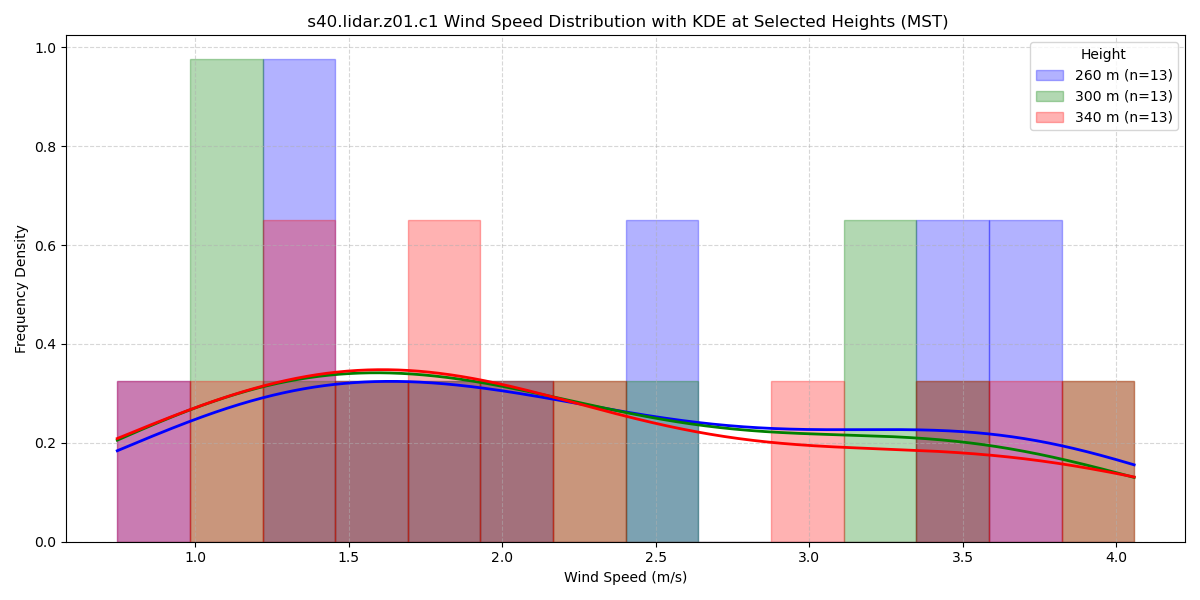
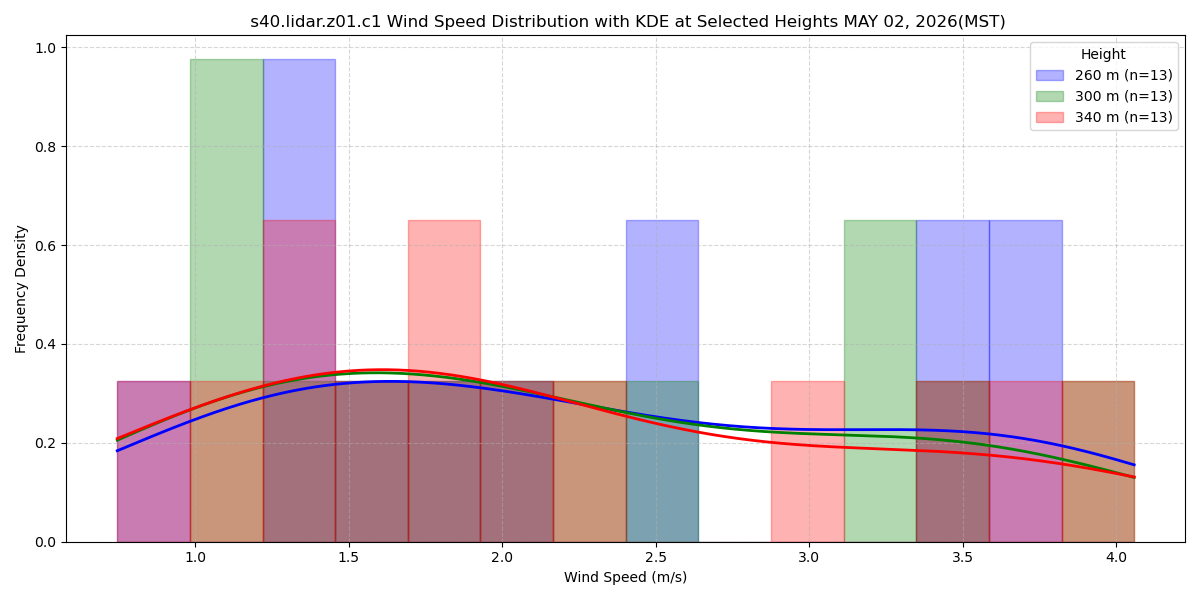
Creation of the code and plot for the histograms of wind SP and DIR from the May 02 data from the s40.lidar.z01.c1 dataset

Changed region(s): [[0.2158, 0.0, 0.8325, 0.06]]

diff --git a/WLA_s40.lidar.z01.c1_MAY02_2026_pull.py b/WLA_s40.lidar.z01.c1_MAY02_2026_pull.py
@@ -95,28 +95,51 @@ print("Selected Heights for Wind Direction:", ds_sel_wd["height"].values)
 # plt.show()
 
 ###################################### 
-# SIKE make the hitogram of the frequencies of wind speed with the fitted KDE pdf line for the difffernt heights
+# SIKE make the histogram of the frequencies of wind speed with the fitted KDE pdf line for the difffernt heights
 
 from scipy.stats import gaussian_kde
 
 # All heights on one axes: shared bin edges, semi-transparent bars so overlapping bins stay visible
-fig, ax = plt.subplots(figsize=(12, 6))
-ws_by_height = {h: ds_sel["WS"].sel(height=h).values for h in ds_sel["height"].values}
-ws_by_height = {h: d[~np.isnan(d)] for h, d in ws_by_height.items()}
-all_ws = np.concatenate(list(ws_by_height.values()))
-bins = np.linspace(all_ws.min(), all_ws.max(), 15)
-x = np.linspace(all_ws.min(), all_ws.max(), 1000)
+# fig, ax = plt.subplots(figsize=(12, 6))
+# ws_by_height = {h: ds_sel["WS"].sel(height=h).values for h in ds_sel["height"].values}
+# ws_by_height = {h: d[~np.isnan(d)] for h, d in ws_by_height.items()}
+# all_ws = np.concatenate(list(ws_by_height.values()))
+# bins = np.linspace(all_ws.min(), all_ws.max(), 15)
+# x = np.linspace(all_ws.min(), all_ws.max(), 1000)
 
-for (h, data), c in zip(ws_by_height.items(), colors):
+# for (h, data), c in zip(ws_by_height.items(), colors):
+#     ax.hist(data, bins=bins, density=True, color=c, alpha=0.3, edgecolor=c, label=f"{h} m (n={data.size})")
+#     ax.plot(x, gaussian_kde(data)(x), color=c, lw=2)
+
+# ax.set_xlabel("Wind Speed (m/s)")
+# ax.set_ylabel("Frequency Density")
+# ax.set_title(" s40.lidar.z01.c1 Wind Speed Distribution with KDE at Selected Heights MAY 02, 2026(MST)")
+# ax.grid(True, linestyle='--', alpha=0.5)
+# ax.legend(title="Height")
+# plt.tight_layout()
+# plt.show()
+
+#############################
+#make the same histogram for wind direction (WD)
+fig, ax = plt.subplots(figsize=(12, 6))
+wd_by_height = {h: ds_sel_wd["WD"].sel(height=h).values for h in ds_sel_wd["height"].values}
+wd_by_height = {h: d[~np.isnan(d)] for h, d in wd_by_height.items()}
+all_wd = np.concatenate(list(wd_by_height.values()))
+bins = np.linspace(all_wd.min(), all_wd.max(), 15)
+x = np.linspace(all_wd.min(), all_wd.max(), 1000)
+
+for (h, data), c in zip(wd_by_height.items(), colors_wd):
     ax.hist(data, bins=bins, density=True, color=c, alpha=0.3, edgecolor=c, label=f"{h} m (n={data.size})")
     ax.plot(x, gaussian_kde(data)(x), color=c, lw=2)
 
-ax.set_xlabel("Wind Speed (m/s)")
+ax.set_xlabel("Wind Direction (degrees)")
 ax.set_ylabel("Frequency Density")
-ax.set_title(" s40.lidar.z01.c1 Wind Speed Distribution with KDE at Selected Heights (MST)")
+ax.set_title(" s40.lidar.z01.c1 Wind Direction Distribution with KDE at Selected Heights MAY 02, 2026(MST)")
 ax.grid(True, linestyle='--', alpha=0.5)
 ax.legend(title="Height")
 plt.tight_layout()
 plt.show()
 
-#############################
+############################## 
+#End of bacis  wind anylsis from the s40.lidar.z01.c1 dataset on MAY 02, 2026
+# Note that this dataset has a limited temporal coverage, so the wind statistics may not be representative of longer-term conditions.
